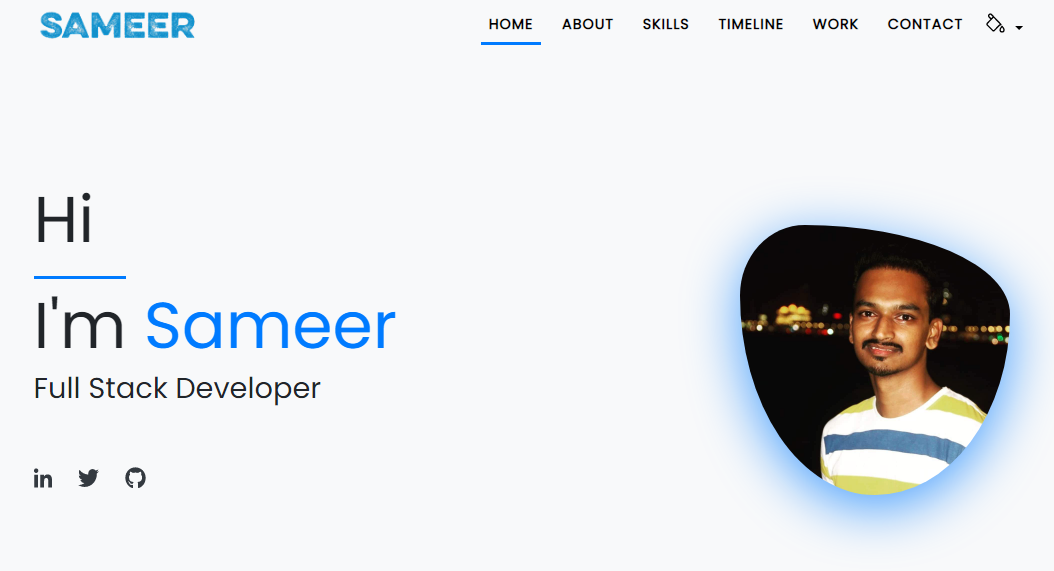
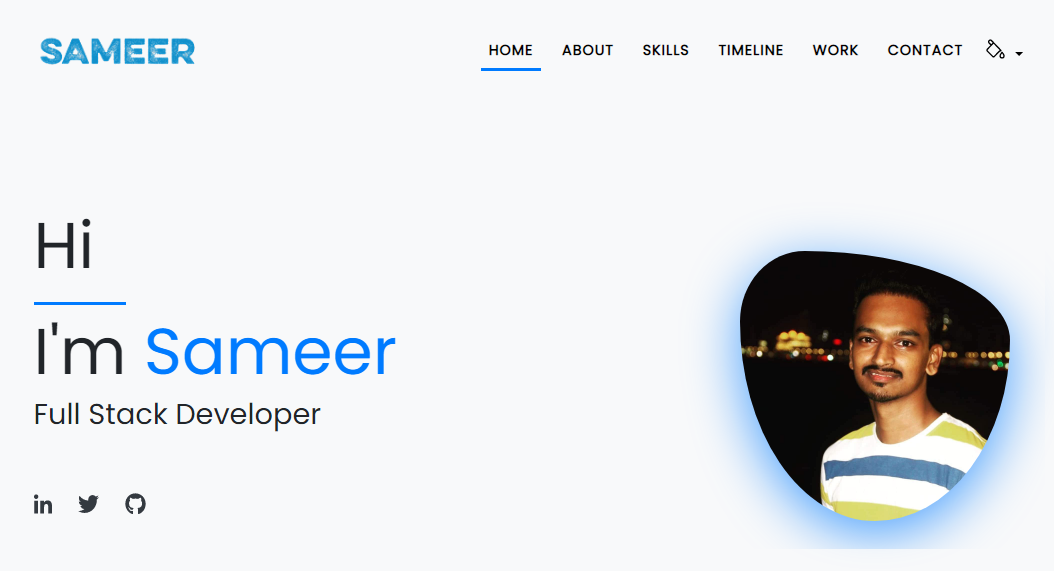
Fix - theme based snap border top and SEO image

diff --git a/index.html b/index.html
@@ -104,7 +104,7 @@
           <div class="order-2 col-md-7 order-md-1">
             <h1 class="pb-2 mb-4 display-3">Hi</h1>
             <h1 class="display-3">
-              <span style="border-top: 4px solid #007bff">I'm</span> <span class="color-primary">Sameer</span>
+              <span class="span-border-top">I'm</span> <span class="color-primary">Sameer</span>
             </h1>
             <h2>Full Stack Developer</h2>
             <div class="home-social">

diff --git a/style.css b/style.css
@@ -275,6 +275,9 @@ body {
   }
 }
 
+.span-border-top {
+  border-top: 4px solid var(--current-primary);
+}
 .banner-section {
   height: 100vh;
 }
